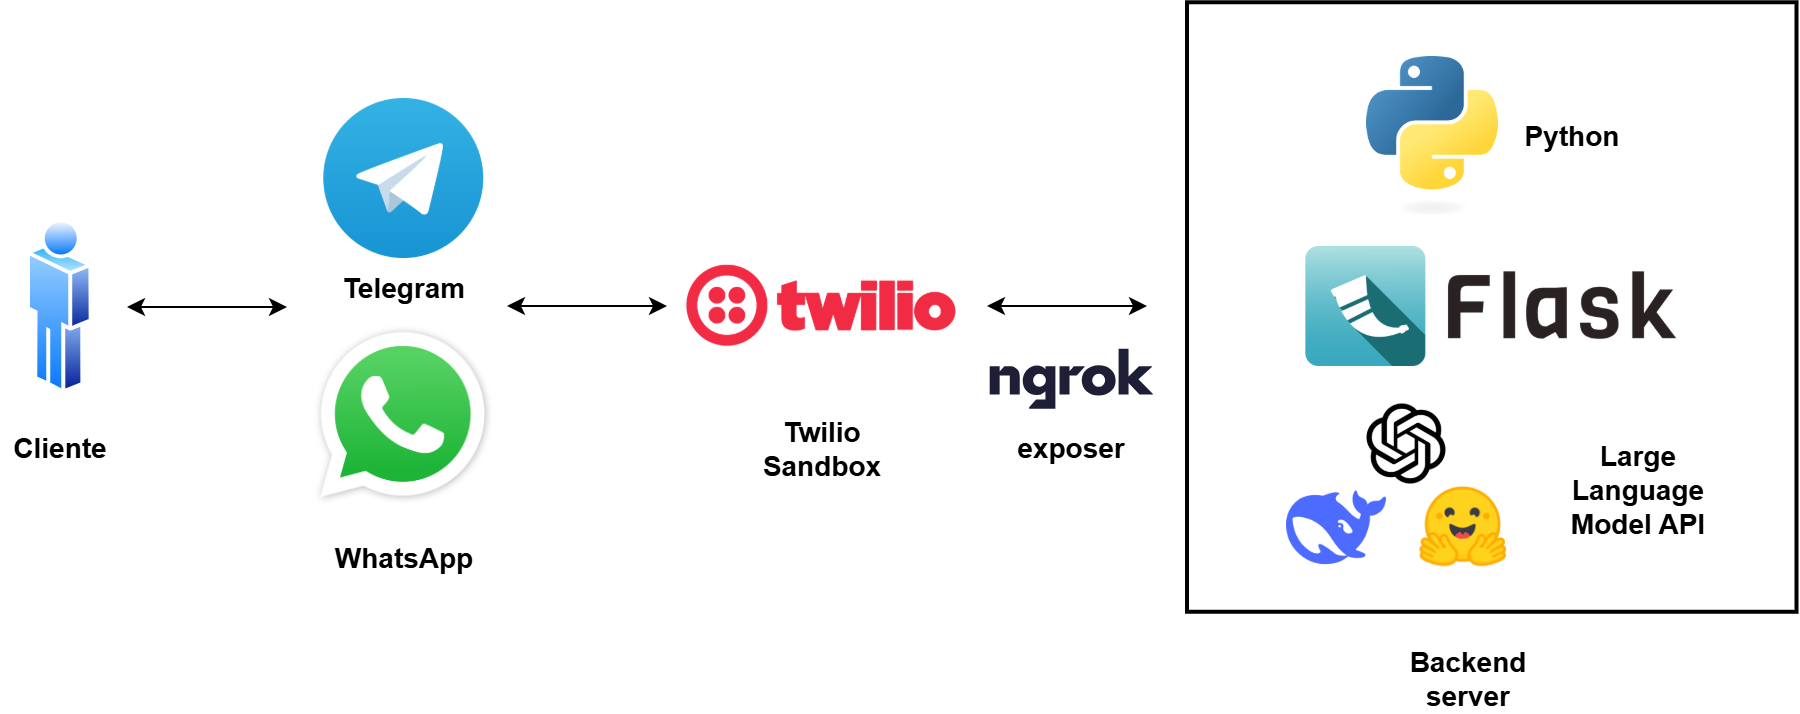
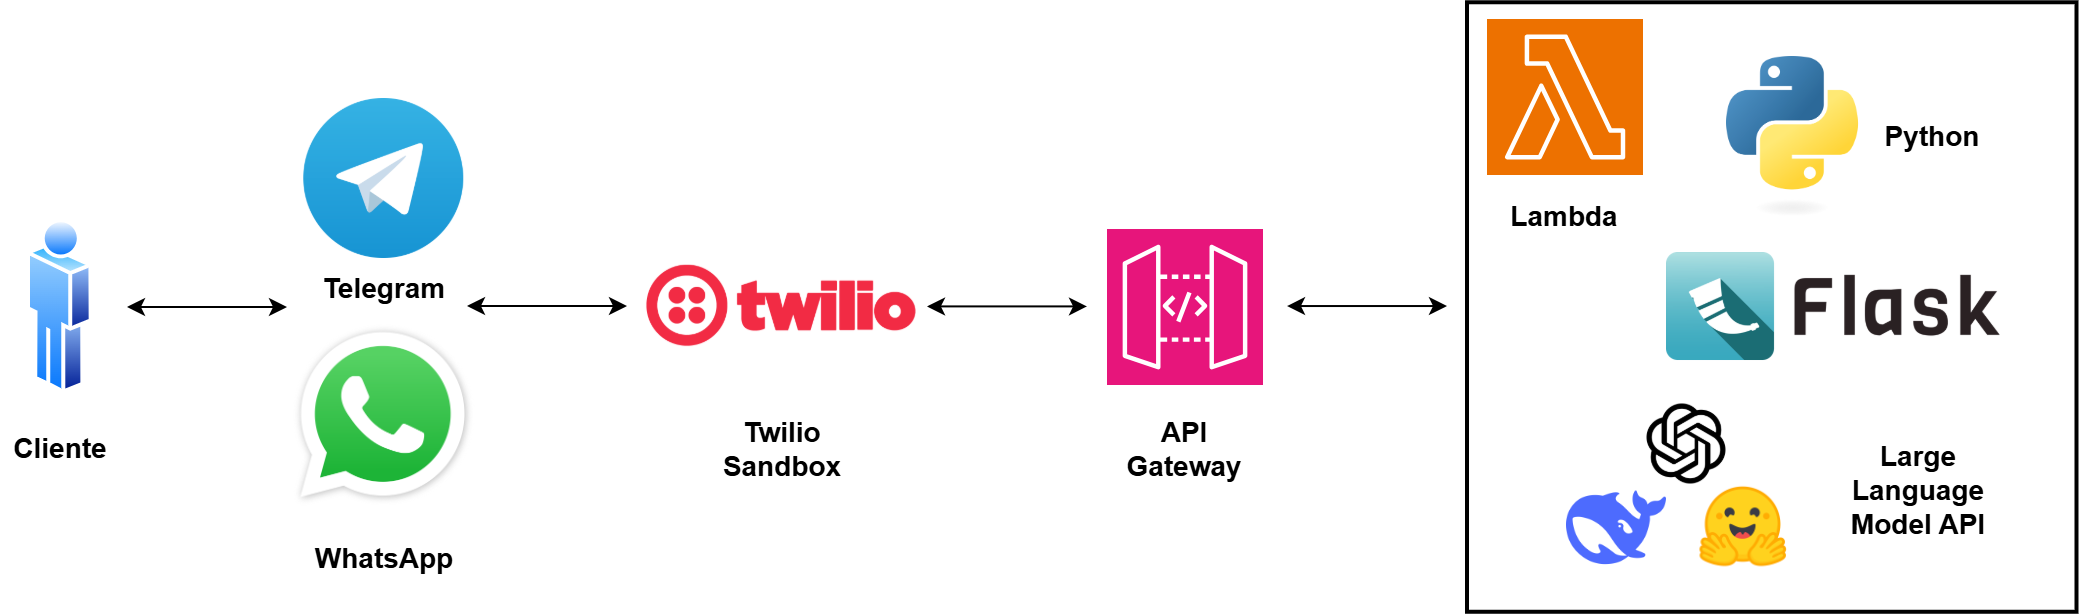
docs

diff --git a/README.md b/README.md
@@ -1,5 +1,22 @@
+# PIRI: Atención prenatal, apoyo total.
 
-# PIRI
+Tu acompañante en la maternidad en WhatsApp y Telegram: pregunta, conversa y monitorea.
+
+<div style="text-align: center;">
+  <img src="images/piri.png" width="400px">
+</div>
+
+## Arquitectura de solución
+
+<div style="text-align: center;">
+  <img src="images/solution.png">
+</div>
+
+## Deployment
+
+El despliegue de la aplicación en AWS se realizó utilizando AWS CDK, definiendo la infraestructura como código. Los pasos principales incluyen la inicialización del proyecto, instalación de dependencias, empaquetado de la función Lambda y despliegue en la nube.
+
+Comandos clave:
 
 ```shell
 cdk init app --language python
@@ -12,3 +29,10 @@ cd ..
 cdk synth
 cdk deploy
 ```
+
+## Demo
+
+<div style="text-align: center;">
+  <img src="images/demo1.jpg" width="300px" style="margin: 10px;">
+  <img src="images/demo2.jpg" width="300px" style="margin: 10px;">
+</div>
